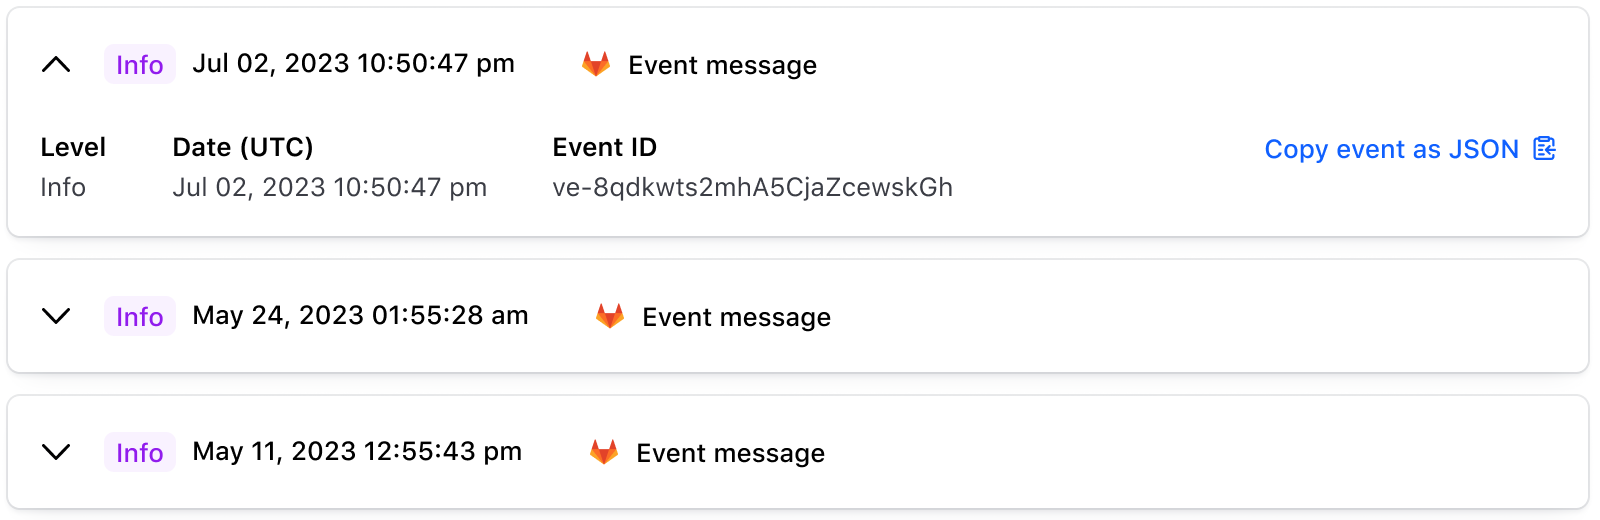
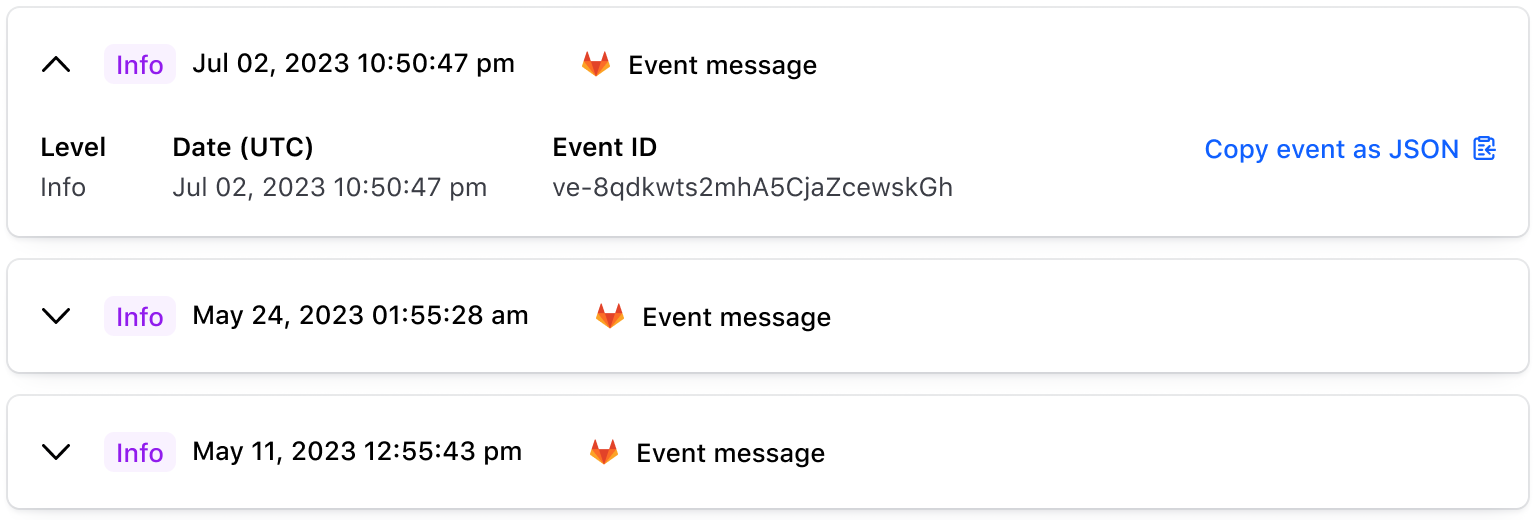
Re-size do/don't images

diff --git a/website/docs/components/accordion/partials/guidelines/guidelines.md b/website/docs/components/accordion/partials/guidelines/guidelines.md
@@ -40,21 +40,21 @@ While similar in functionality and interaction, the Accordion and Reveal are mea
 
 Use the Accordion when you need to display content in different sections that have a sequential or hierarchical relationship between them.
 
-![Accordion with basic content](/assets/components/accordion/usage-do.png)
+![Accordion with basic content](/assets/components/accordion/usage-do.png =770x*)
 !!!
 
 !!! Dont
 
 Don’t use the Accordion when you need to display a single piece of content that can expand and collapse. Use the [Reveal](/components/reveal) instead.
 
-![Accordion with basic content](/assets/components/accordion/usage-do-not.png)
+![Accordion with basic content](/assets/components/accordion/usage-do-not.png =770x*)
 !!!
 
 !!! Do
 
 Use the Accordion when the toggle or the content is relatively complex.
 
-![Accordion with complex content](/assets/components/accordion/usage-do-complex.png)
+![Accordion with complex content](/assets/components/accordion/usage-do-complex.png =770x*)
 !!!
 
 ## Toggle content

diff --git a/website/docs/components/accordion/partials/specifications/states.md b/website/docs/components/accordion/partials/specifications/states.md
@@ -2,16 +2,16 @@
 
 ### Default
 
-![Example of accordion states](/assets/components/accordion/accordion-states.png =800x*)
+![Accordion states](/assets/components/accordion/accordion-states.png =800x*)
 
 #### Is open
 
-![Example of accordion states when is open](/assets/components/accordion/accordion-states-open.png =800x*)
+![Accordion states when is open](/assets/components/accordion/accordion-states-open.png =800x*)
 
 ### Contains interactive
 
-![Example of accordion states](/assets/components/accordion/accordion-states-contains-interactive.png =800x*)
+![Accordion states with nested interactive elements](/assets/components/accordion/accordion-states-contains-interactive.png =800x*)
 
 #### Is open
 
-![Example of accordion states when is open](/assets/components/accordion/accordion-states-open-contains-interactive.png =800x*)
+![Accordion states with nested interactive elements](/assets/components/accordion/accordion-states-open-contains-interactive.png =800x*)
